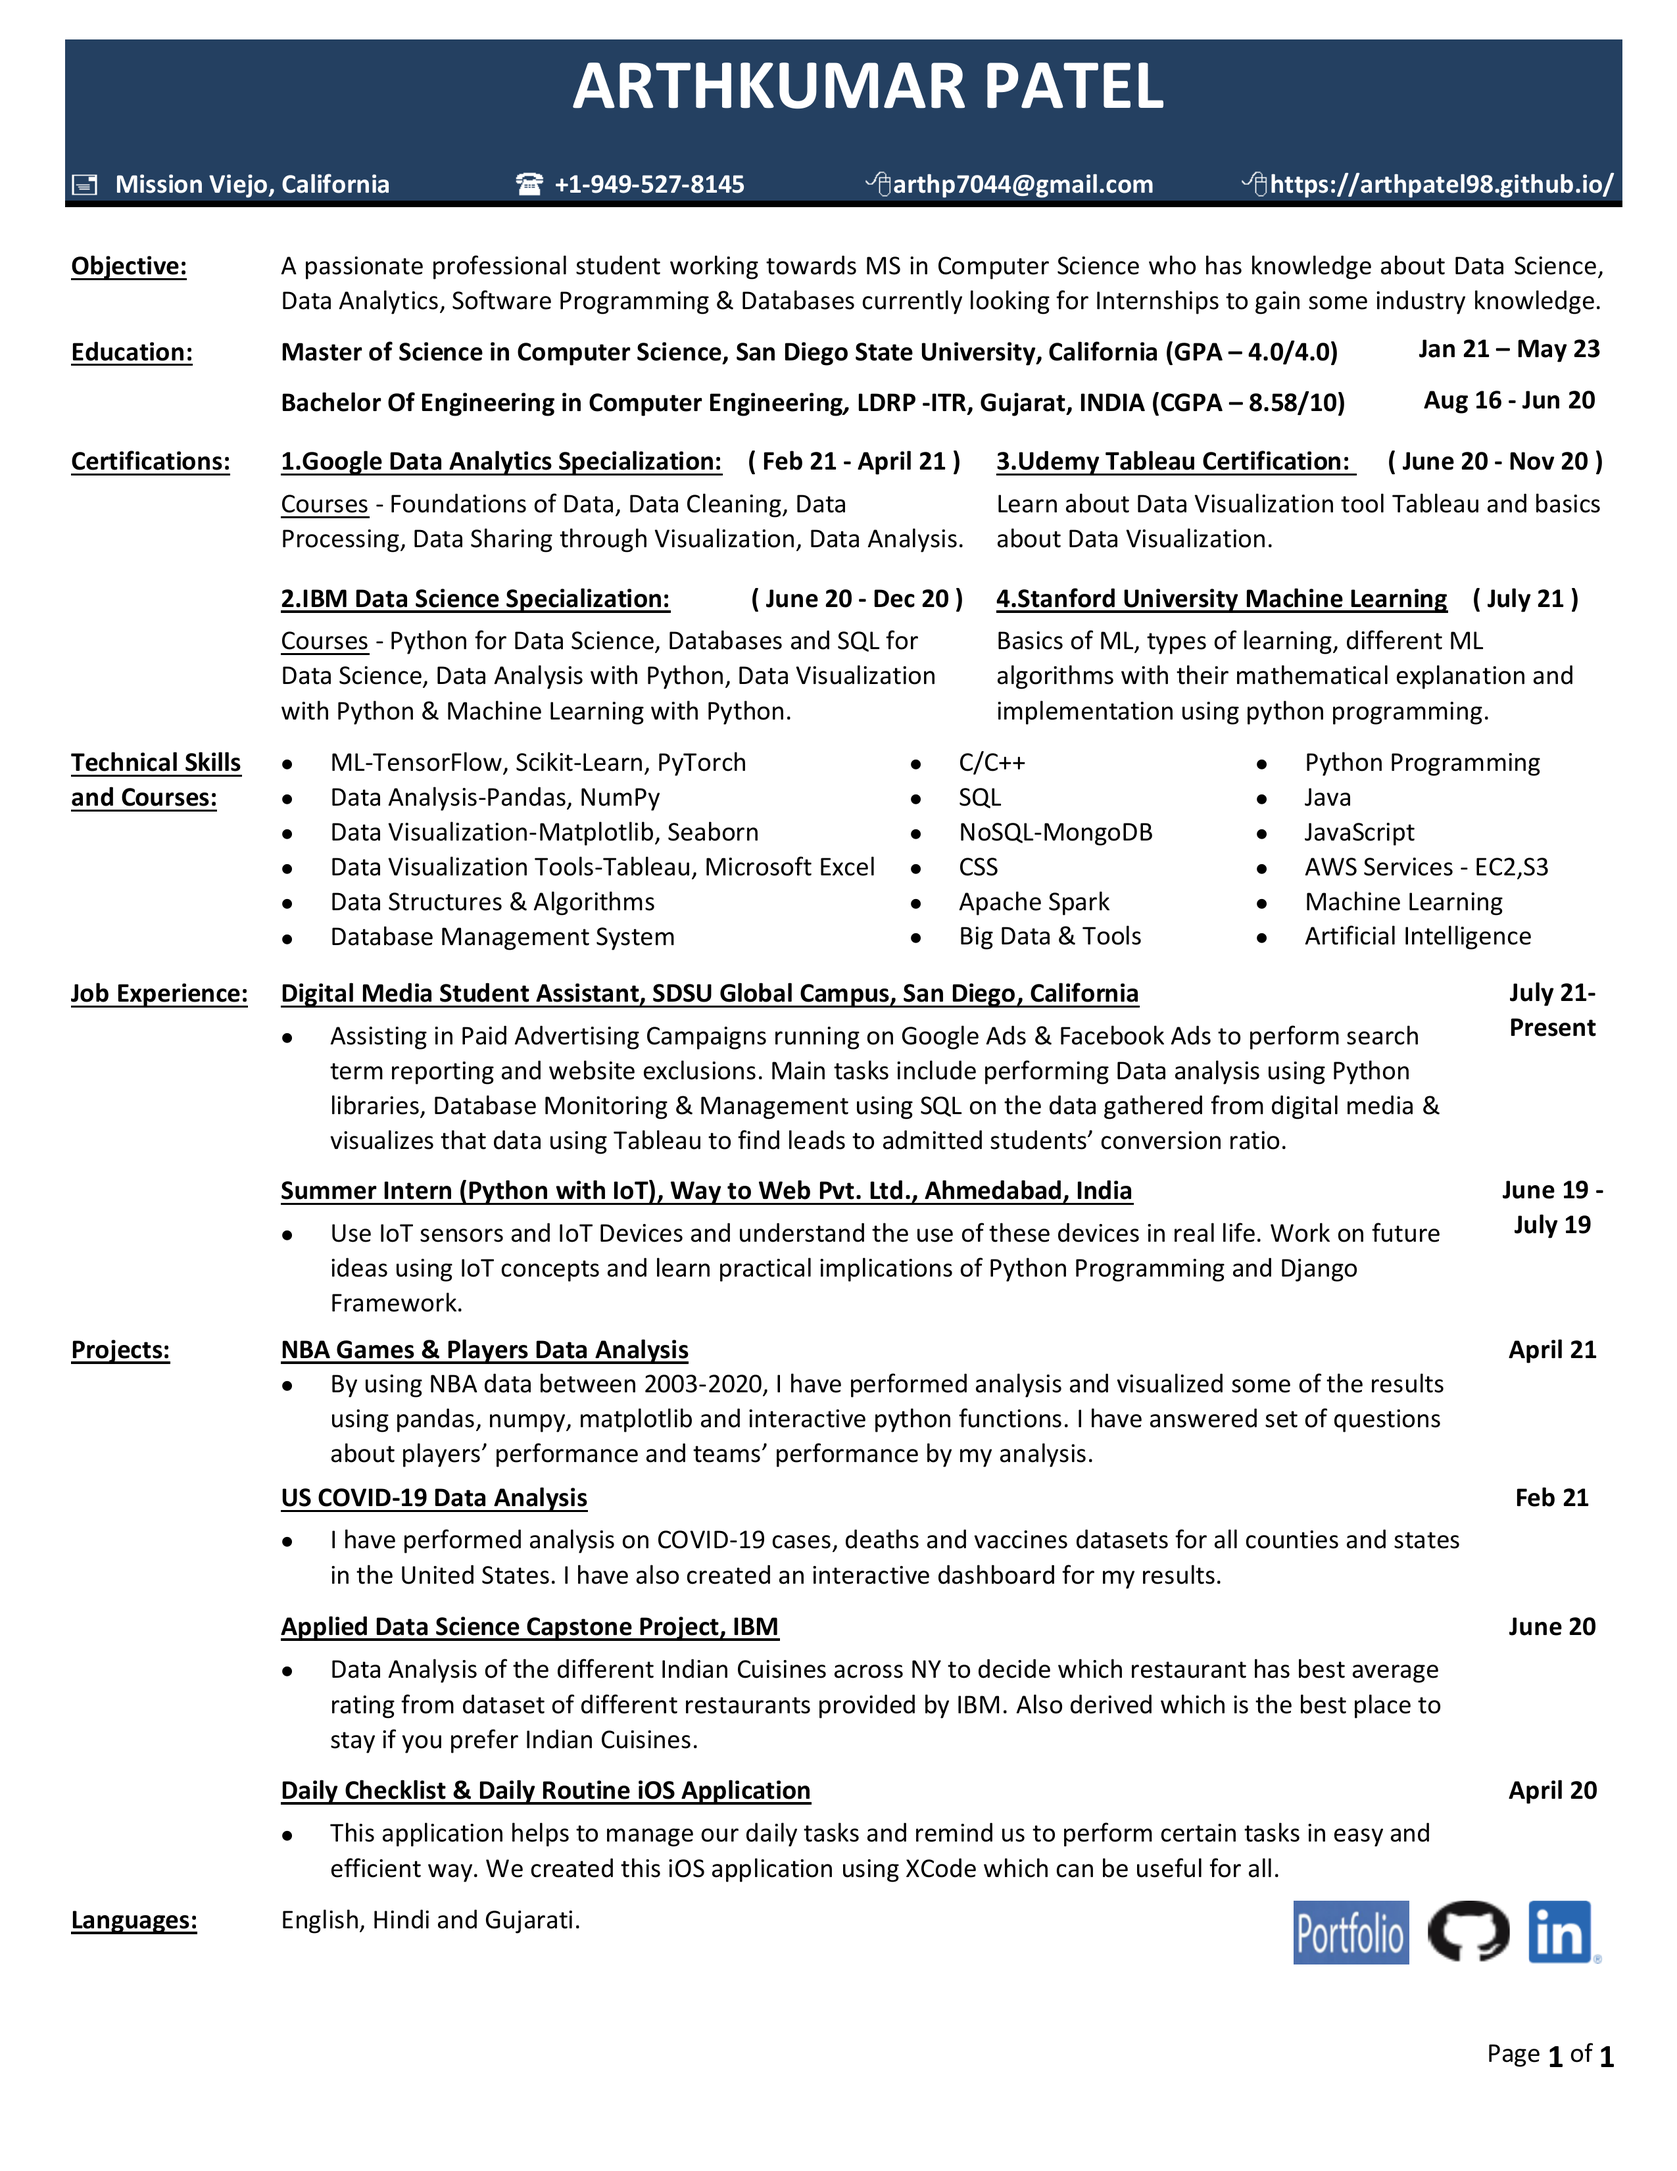
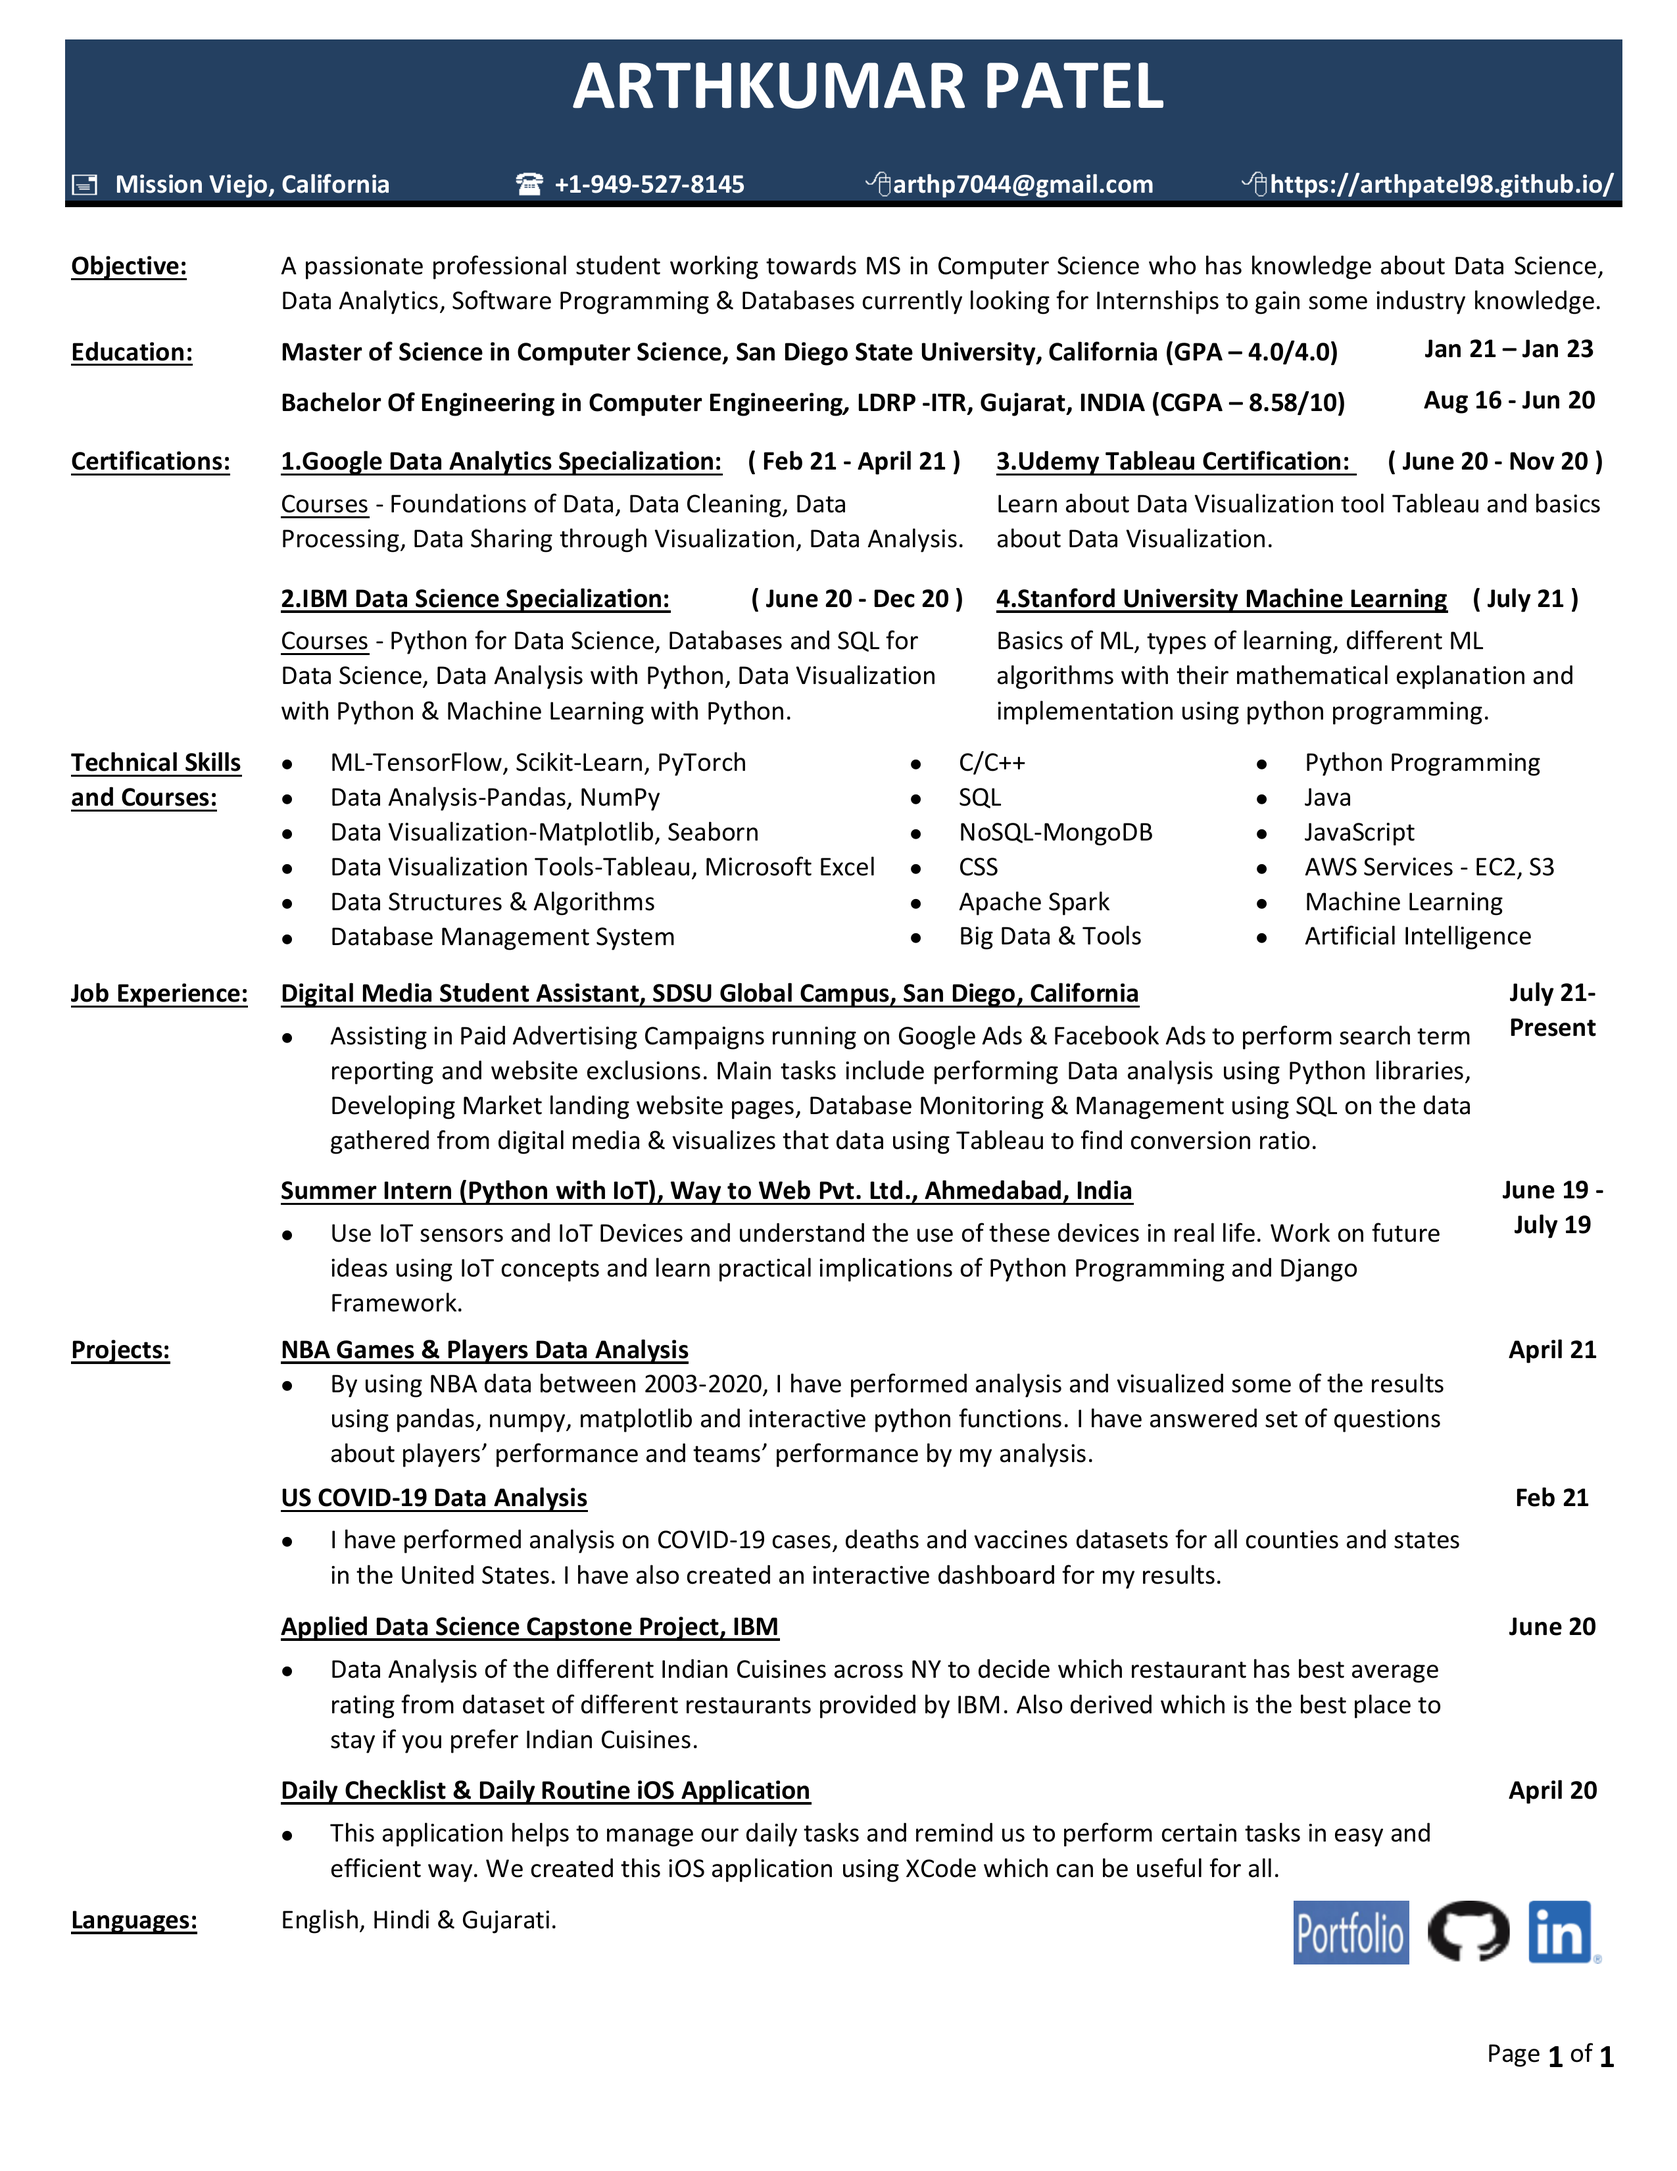
Add files via upload

Changed region(s): [[0.1859, 0.468, 0.8675, 0.5304], [0.8675, 0.156, 0.9604, 0.1872], [0.2788, 0.8737, 0.3098, 0.9049]]

diff --git a/work.html b/work.html
@@ -40,7 +40,7 @@
 							<p>My main job is to assist in Paid Advertising Campaigns running on Google Ads & Facebook Ads and perform Search Term Reporting and Website Exclusion tasks for the marketing department of SDSU Global Campus.
 							 
 							</p>
-							<p>Also perform weekly Data analysis using Python Libraries, Database Monitoring & Management using SQL on the data gathered from digital media platforms & Visualizes that data using Tableau to find leads to admitted students’ conversion ratio for all programs of SDSU.</p>
+							<p>Also perform weekly Data analysis using Python Libraries, Develop & Design market landing website pages, Database Monitoring & Management using SQL on the data gathered from digital media platforms & Visualizes that data using Tableau to find leads to admitted students’ conversion ratio for all programs of SDSU.</p>
 						</article>
 
 						<article>

diff --git a/resume.html b/resume.html
@@ -28,7 +28,7 @@
 		<div id="main">
 			<img style='height: 100%; width: 100%; object-fit: contain;' src="images/res.png" " alt="" />
 			<ul class="actions special">
-				<li><a href="https://github.com/arthpatel98/pdfs/raw/main/Resume_Arthkumar_Patel.pdf" class="button icon solid fa-download"> RESUME </a></li>
+				<li><a href="https://github.com/arthpatel98/pdfs/raw/main/Resume_Arthkumar.pdf" class="button icon solid fa-download"> RESUME </a></li>
 			</ul>
 		</div> 
 		
